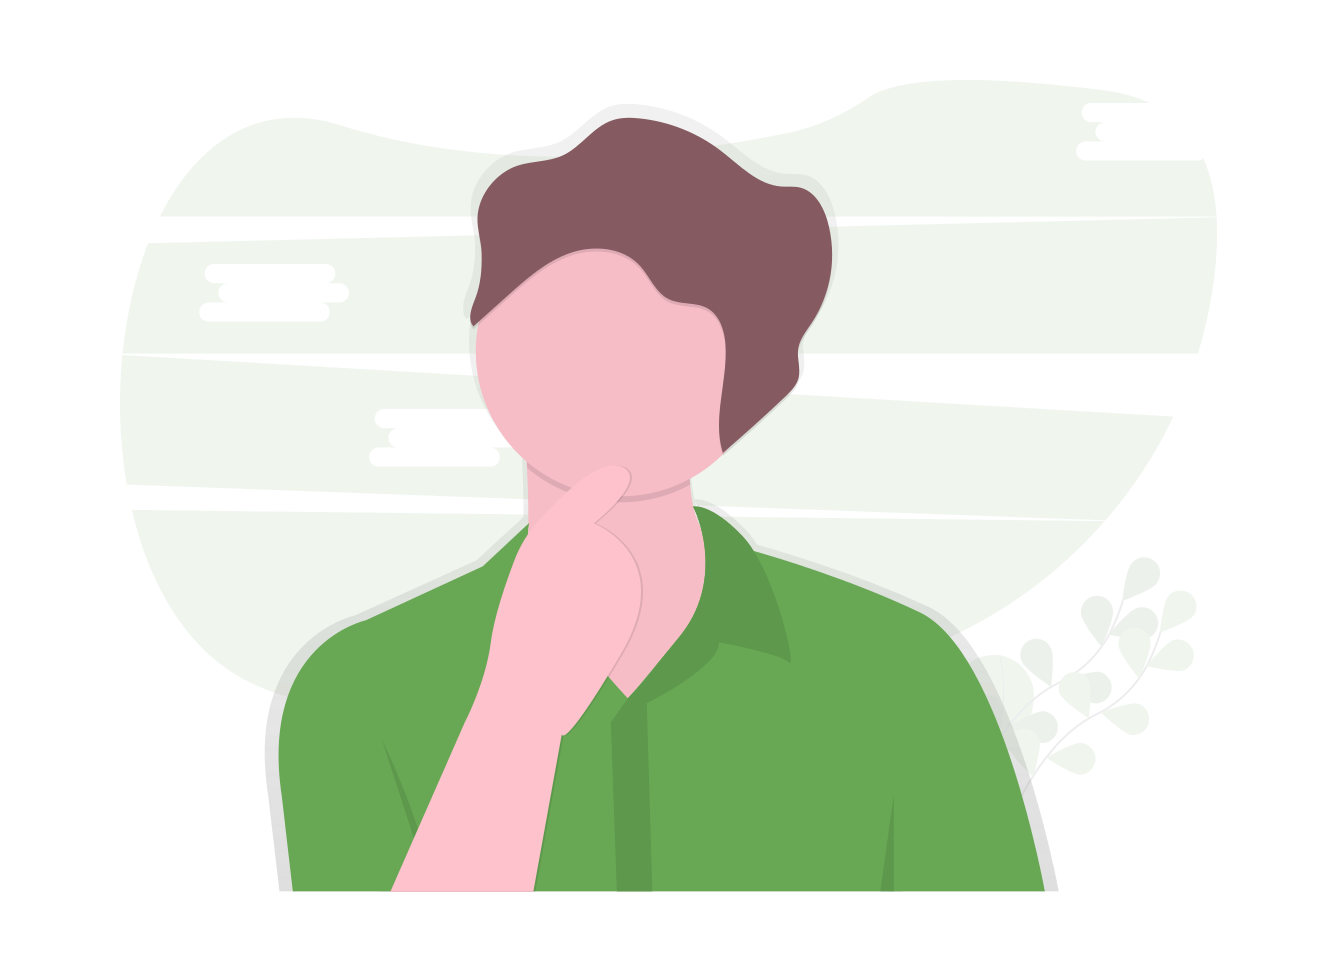
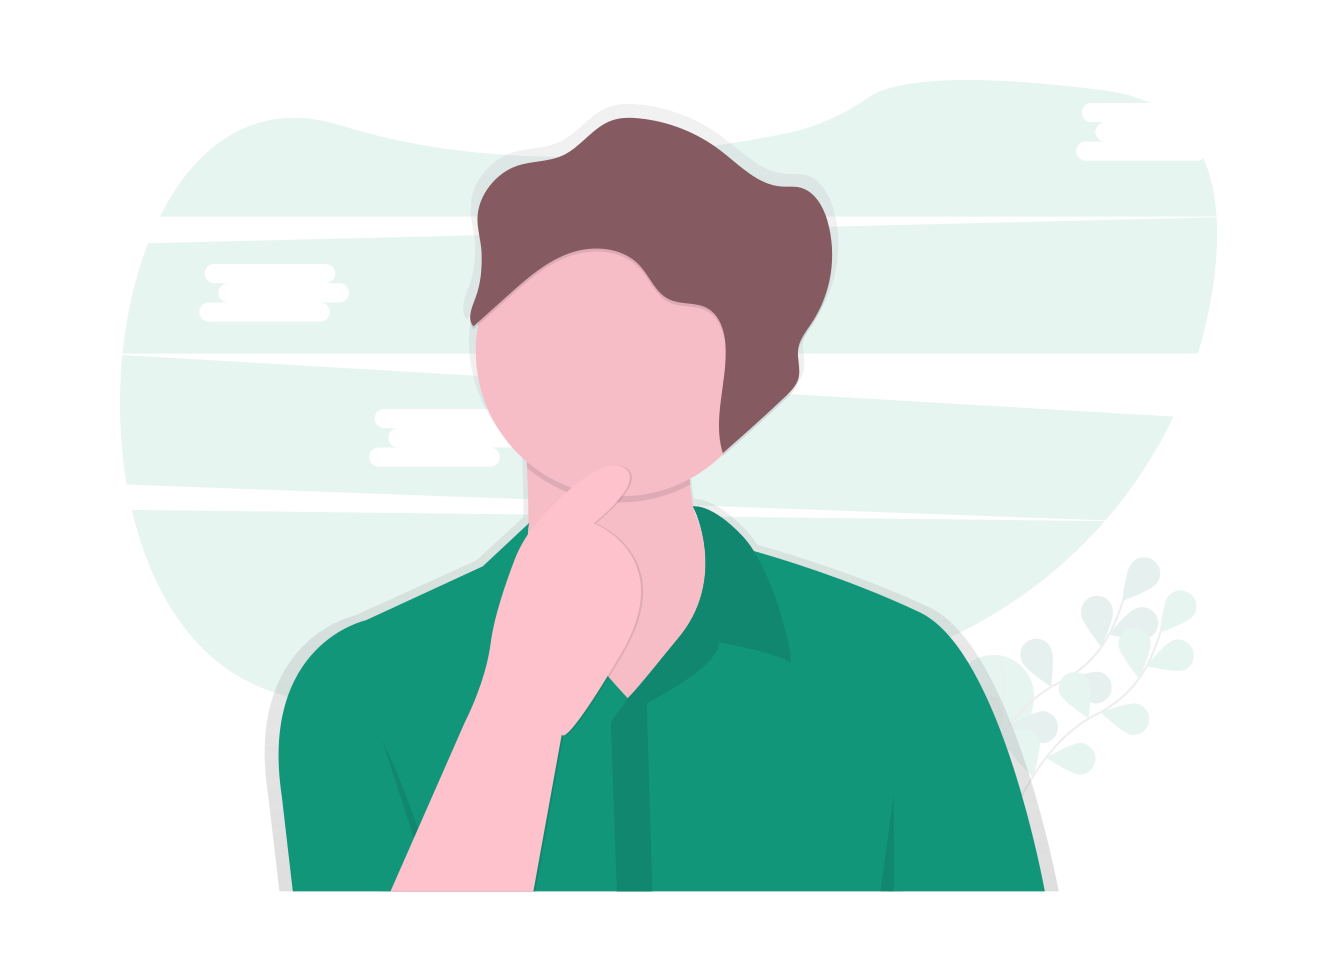
[ Styling ] Beautify login screens

Changed region(s): [[0.3987, 0.5247, 0.7973, 0.9259], [0.184, 0.5247, 0.3987, 0.9259]]

diff --git a/screens/Auth/LoginScreen.js b/screens/Auth/LoginScreen.js
@@ -1,5 +1,5 @@
 import React, { useState } from 'react';
-import { StyleSheet, Platform, View, Image, ScrollView } from 'react-native';
+import { StyleSheet, Platform, View, Image, ScrollView, Dimensions } from 'react-native';
 import { Form, Input, Toast, InputGroup, Card } from 'native-base';
 import { Text, Touchable, BoldText } from 'components';
 import AnimatedButton from 'components/AnimatedButton';
@@ -52,20 +52,23 @@ export default function LoginScreen({ navigation: { navigate } }) {
     <View style={{ flex: 1, backgroundColor: '#fff', paddingTop: 20 }}>
       <ScrollView style={styles.container}>
         <View style={{ width: '100%', paddingHorizontal: 25, marginTop: 50, marginBottom: 25 }}>
-          <BoldText style={{ fontSize: 24, textAlign: 'center', color: colors.primary }}>Welcome to Wahdapp</BoldText>
+          <BoldText style={{ fontSize: 24, textAlign: 'left', color: colors.primary, letterSpacing: 1.8 }}>Welcome to Wahdapp</BoldText>
         </View>
-        <View style={styles.imageContainer}>
+        {/* <View style={styles.imageContainer}>
           <Image
             style={{ height: 150, width: '100%', resizeMode: 'contain' }}
             source={BISMILLAH}
           />
-        </View>
+        </View> */}
         <View style={styles.formContainer}>
           <Form>
+            <BoldText style={styles.inputLabel}>{t('EMAIL')}</BoldText>
             <InputGroup floatingLabel rounded style={styles.inputGroup}>
               <Ionicons name={Platform.OS === 'ios' ? 'ios-mail' : 'md-mail'} size={25} color="#DDD" style={{ paddingLeft: 10 }} />
               <Input value={email} onChangeText={setEmail} style={styles.input} />
             </InputGroup>
+
+            <BoldText style={styles.inputLabel}>{t('PASSWORD')}</BoldText>
             <InputGroup floatingLabel rounded style={styles.inputGroup}>
               <Ionicons name={Platform.OS === 'ios' ? 'ios-lock' : 'md-lock'} size={25} color="#DDD" style={{ paddingLeft: 10 }} />
               <Input value={password} onChangeText={setPassword} secureTextEntry={true} style={styles.input} />
@@ -79,13 +82,13 @@ export default function LoginScreen({ navigation: { navigate } }) {
           <View style={styles.loginBtnContainer}>
             <AnimatedButton
               showLoading={loading}
-              width={150}
-              height={45}
+              width={Dimensions.get('window').width - 45}
+              height={50}
               title={t('LOGIN')}
               titleFontSize={14}
               titleFontFamily="Sen"
               titleColor="rgb(255,255,255)"
-              backgroundColor={colors.secondary}
+              backgroundColor={colors.primary}
               borderRadius={25}
               onPress={handleLogin}
             />
@@ -93,7 +96,7 @@ export default function LoginScreen({ navigation: { navigate } }) {
 
           <View style={styles.signUpLabelContainer}>
             <Text style={styles.signUpLabel}>{t('NOT_HAVE')}</Text>
-            <Text style={{ ...styles.signUpLabel, color: colors.secondary }} onPress={() => navigate('Signup')}> {t('SIGNUP_NOW')} </Text>
+            <Text style={{ ...styles.signUpLabel, color: colors.primary }} onPress={() => navigate('Signup')}> {t('SIGNUP_NOW')} </Text>
           </View>
 
           <View style={styles.signUpLabelContainer}>
@@ -109,7 +112,7 @@ export default function LoginScreen({ navigation: { navigate } }) {
             </Touchable>
           </View> */}
 
-          <View style={styles.loginBtnContainer}>
+          <View style={{ ...styles.loginBtnContainer, marginTop: 15 }}>
             <Touchable onPress={handleGooglePress}>
               <View style={styles.googleButton}>
                 <Image style={{ width: 20, height: 20, resizeMode: 'contain', marginRight: 15 }} source={GOOGLE} />
@@ -177,7 +180,7 @@ const styles = StyleSheet.create({
     color: '#7C7C7C'
   },
   signUpLabelContainer: {
-    marginTop: 25,
+    marginTop: 10,
     flexDirection: 'row',
     justifyContent: 'center'
   },
@@ -202,6 +205,12 @@ const styles = StyleSheet.create({
     marginHorizontal: 10,
     fontFamily: 'Sen',
     lineHeight: 16
+  },
+  inputLabel: {
+    fontSize: 12,
+    marginLeft: 10,
+    marginBottom: 10,
+    color: '#7C7C7C'
   },
   facebookButton: {
     height: 52,

diff --git a/screens/Auth/SignupScreen.js b/screens/Auth/SignupScreen.js
@@ -1,5 +1,5 @@
 import React, { useState } from 'react';
-import { StyleSheet, Platform, View, Picker, ScrollView } from 'react-native';
+import { StyleSheet, Platform, View, Picker, ScrollView, Dimensions } from 'react-native';
 import { Form, Input, Toast, InputGroup, Card } from 'native-base';
 import { BoldText } from 'components';
 import AnimatedButton from 'components/AnimatedButton';
@@ -101,8 +101,8 @@ export default function SignupScreen({ navigation: { navigate } }) {
             <View style={styles.signupBtnContainer}>
               <AnimatedButton
                 showLoading={loading}
-                width={150}
-                height={45}
+                width={Dimensions.get('window').width - 50}
+                height={50}
                 title={t('SIGNUP')}
                 titleFontSize={14}
                 titleFontFamily="Sen"
@@ -146,7 +146,8 @@ const styles = StyleSheet.create({
     fontSize: 24,
     fontWeight: 'bold',
     textAlign: 'left',
-    letterSpacing: 2.5
+    letterSpacing: 1.8,
+    color: colors.primary
   },
   formContainer: {
     paddingLeft: 25,

diff --git a/App.js b/App.js
@@ -101,10 +101,10 @@ export default function App(props) {
     return (
       <Root>
         <NavigationContainer>
-          <Stack.Navigator initialRouteName="Login">
+          <Stack.Navigator initialRouteName="EmailSent">
             <Stack.Screen name="Login" component={LoginScreen} options={{ headerShown: false }} />
-            <Stack.Screen name="Signup" component={SignupScreen} options={{ title: '' }} />
-            <Stack.Screen name="ForgotPassword" component={ForgotPasswordScreen} options={{ title: t('FORGOT_PWD') }} />
+            <Stack.Screen name="Signup" component={SignupScreen} options={{ title: '', headerBackTitle: t('LOGIN') }} />
+            <Stack.Screen name="ForgotPassword" component={ForgotPasswordScreen} options={{ title: '', headerBackTitle: t('LOGIN') }} />
             <Stack.Screen name="EmailSent" component={EmailSentScreen} options={{ headerShown: false }} />
           </Stack.Navigator>
         </NavigationContainer>

diff --git a/screens/Auth/ForgotPasswordScreen.js b/screens/Auth/ForgotPasswordScreen.js
@@ -88,7 +88,7 @@ export default function ForgotPasswordScreen({ navigation: { navigate } }) {
           </View>
         </View>
       </Content>
-    </View >
+    </View>
   )
 }
 
@@ -124,8 +124,6 @@ const styles = StyleSheet.create({
     marginTop: 25
   },
   formContainer: {
-    paddingLeft: 25,
-    paddingRight: 25,
     width: '100%'
   },
   inputGroup: {
@@ -143,12 +141,11 @@ const styles = StyleSheet.create({
   buttonContainer: {
     justifyContent: 'center',
     alignItems: 'center',
-    width: '100%',
-    paddingHorizontal: 25
+    width: '100%'
   },
   button: {
     width: '100%',
-    backgroundColor: colors.secondary,
+    backgroundColor: colors.primary,
     height: 52
   }
 });

diff --git a/screens/Auth/EmailSentScreen.js b/screens/Auth/EmailSentScreen.js
@@ -39,7 +39,6 @@ export default function EmailSentScreen({ navigation: { navigate } }) {
 
 const styles = StyleSheet.create({
   container: {
-    flex: 1,
     backgroundColor: '#fff',
     paddingTop: Platform.OS === 'ios' ? 20 : 24,
     padding: 25,
@@ -89,12 +88,11 @@ const styles = StyleSheet.create({
   buttonContainer: {
     justifyContent: 'center',
     alignItems: 'center',
-    width: '100%',
-    paddingHorizontal: 25
+    width: '100%'
   },
   button: {
     width: '100%',
-    backgroundColor: colors.secondary,
+    backgroundColor: colors.primary,
     height: 52
   }
 });
